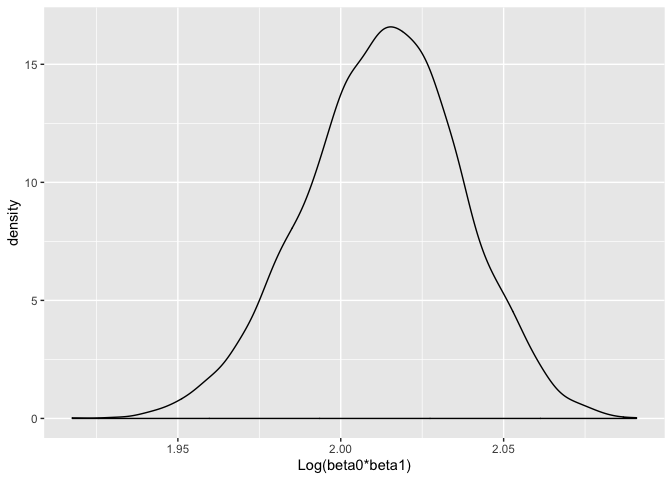
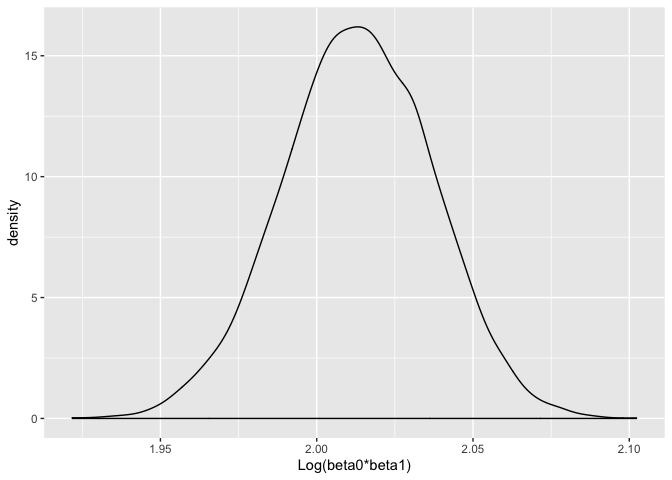
modify the density plot and comment on 95% CIs

diff --git a/p8105_hw6_ra2965.md b/p8105_hw6_ra2965.md
@@ -160,6 +160,7 @@ weather_df =
 ### Calculate the estimates for r\_squared and log(beta0\*beta1), then tidy data:
 
 ``` r
+set.seed(1)
 weather_estimates = weather_df %>% 
   modelr::bootstrap(n = 5000) %>% 
   mutate(
@@ -189,7 +190,7 @@ weather_results %>%
    ggplot(aes(x = r_squared)) + geom_density()
 ```
 
-![](p8105_hw6_ra2965_files/figure-markdown_github/unnamed-chunk-9-1.png) This distribution has a heavier tail extending to low values and a bit of a “shoulder”, features that may be related to the frequency with which large outliers are included in the bootstrap sample. In addition, the mean r square is larger than 0.90, which indicates more than 90% variance of tmax can be explained by tmin.
+![](p8105_hw6_ra2965_files/figure-markdown_github/unnamed-chunk-9-1.png) This distribution has a heavier tail extending to low values, features that may be related to the frequency with which large outliers are included in the bootstrap sample. In addition, the mean r square is larger than 0.90, which indicates more than 90% variance of tmax can be explained by tmin.
 
 ``` r
 weather_results %>% 
@@ -209,17 +210,19 @@ quantile(weather_results$r_squared, c(0.025, 0.975)) %>%
   knitr::kable()
 ```
 
-|       |          x|
-|-------|----------:|
-| 2.5%  |  0.8938470|
-| 97.5% |  0.9275905|
+|          |                                                               x|
+|----------|---------------------------------------------------------------:|
+| 2.5%     |                                                       0.8936684|
+| 97.5%    |                                                       0.9271060|
+| Accordin |  g to the table above, the 95% CI for r square is (0.89, 0.93).|
 
 ``` r
 quantile(weather_results$log_betas, c(0.025, 0.975)) %>% 
     knitr::kable()
 ```
 
-|       |         x|
-|-------|---------:|
-| 2.5%  |  1.964019|
-| 97.5% |  2.058219|
+|          |                                                                        x|
+|----------|------------------------------------------------------------------------:|
+| 2.5%     |                                                                 1.964949|
+| 97.5%    |                                                                 2.058887|
+| Accordin |  g to the table above, the 95% CI for Log(beta0\*beta1) is (1.97, 2.06).|
